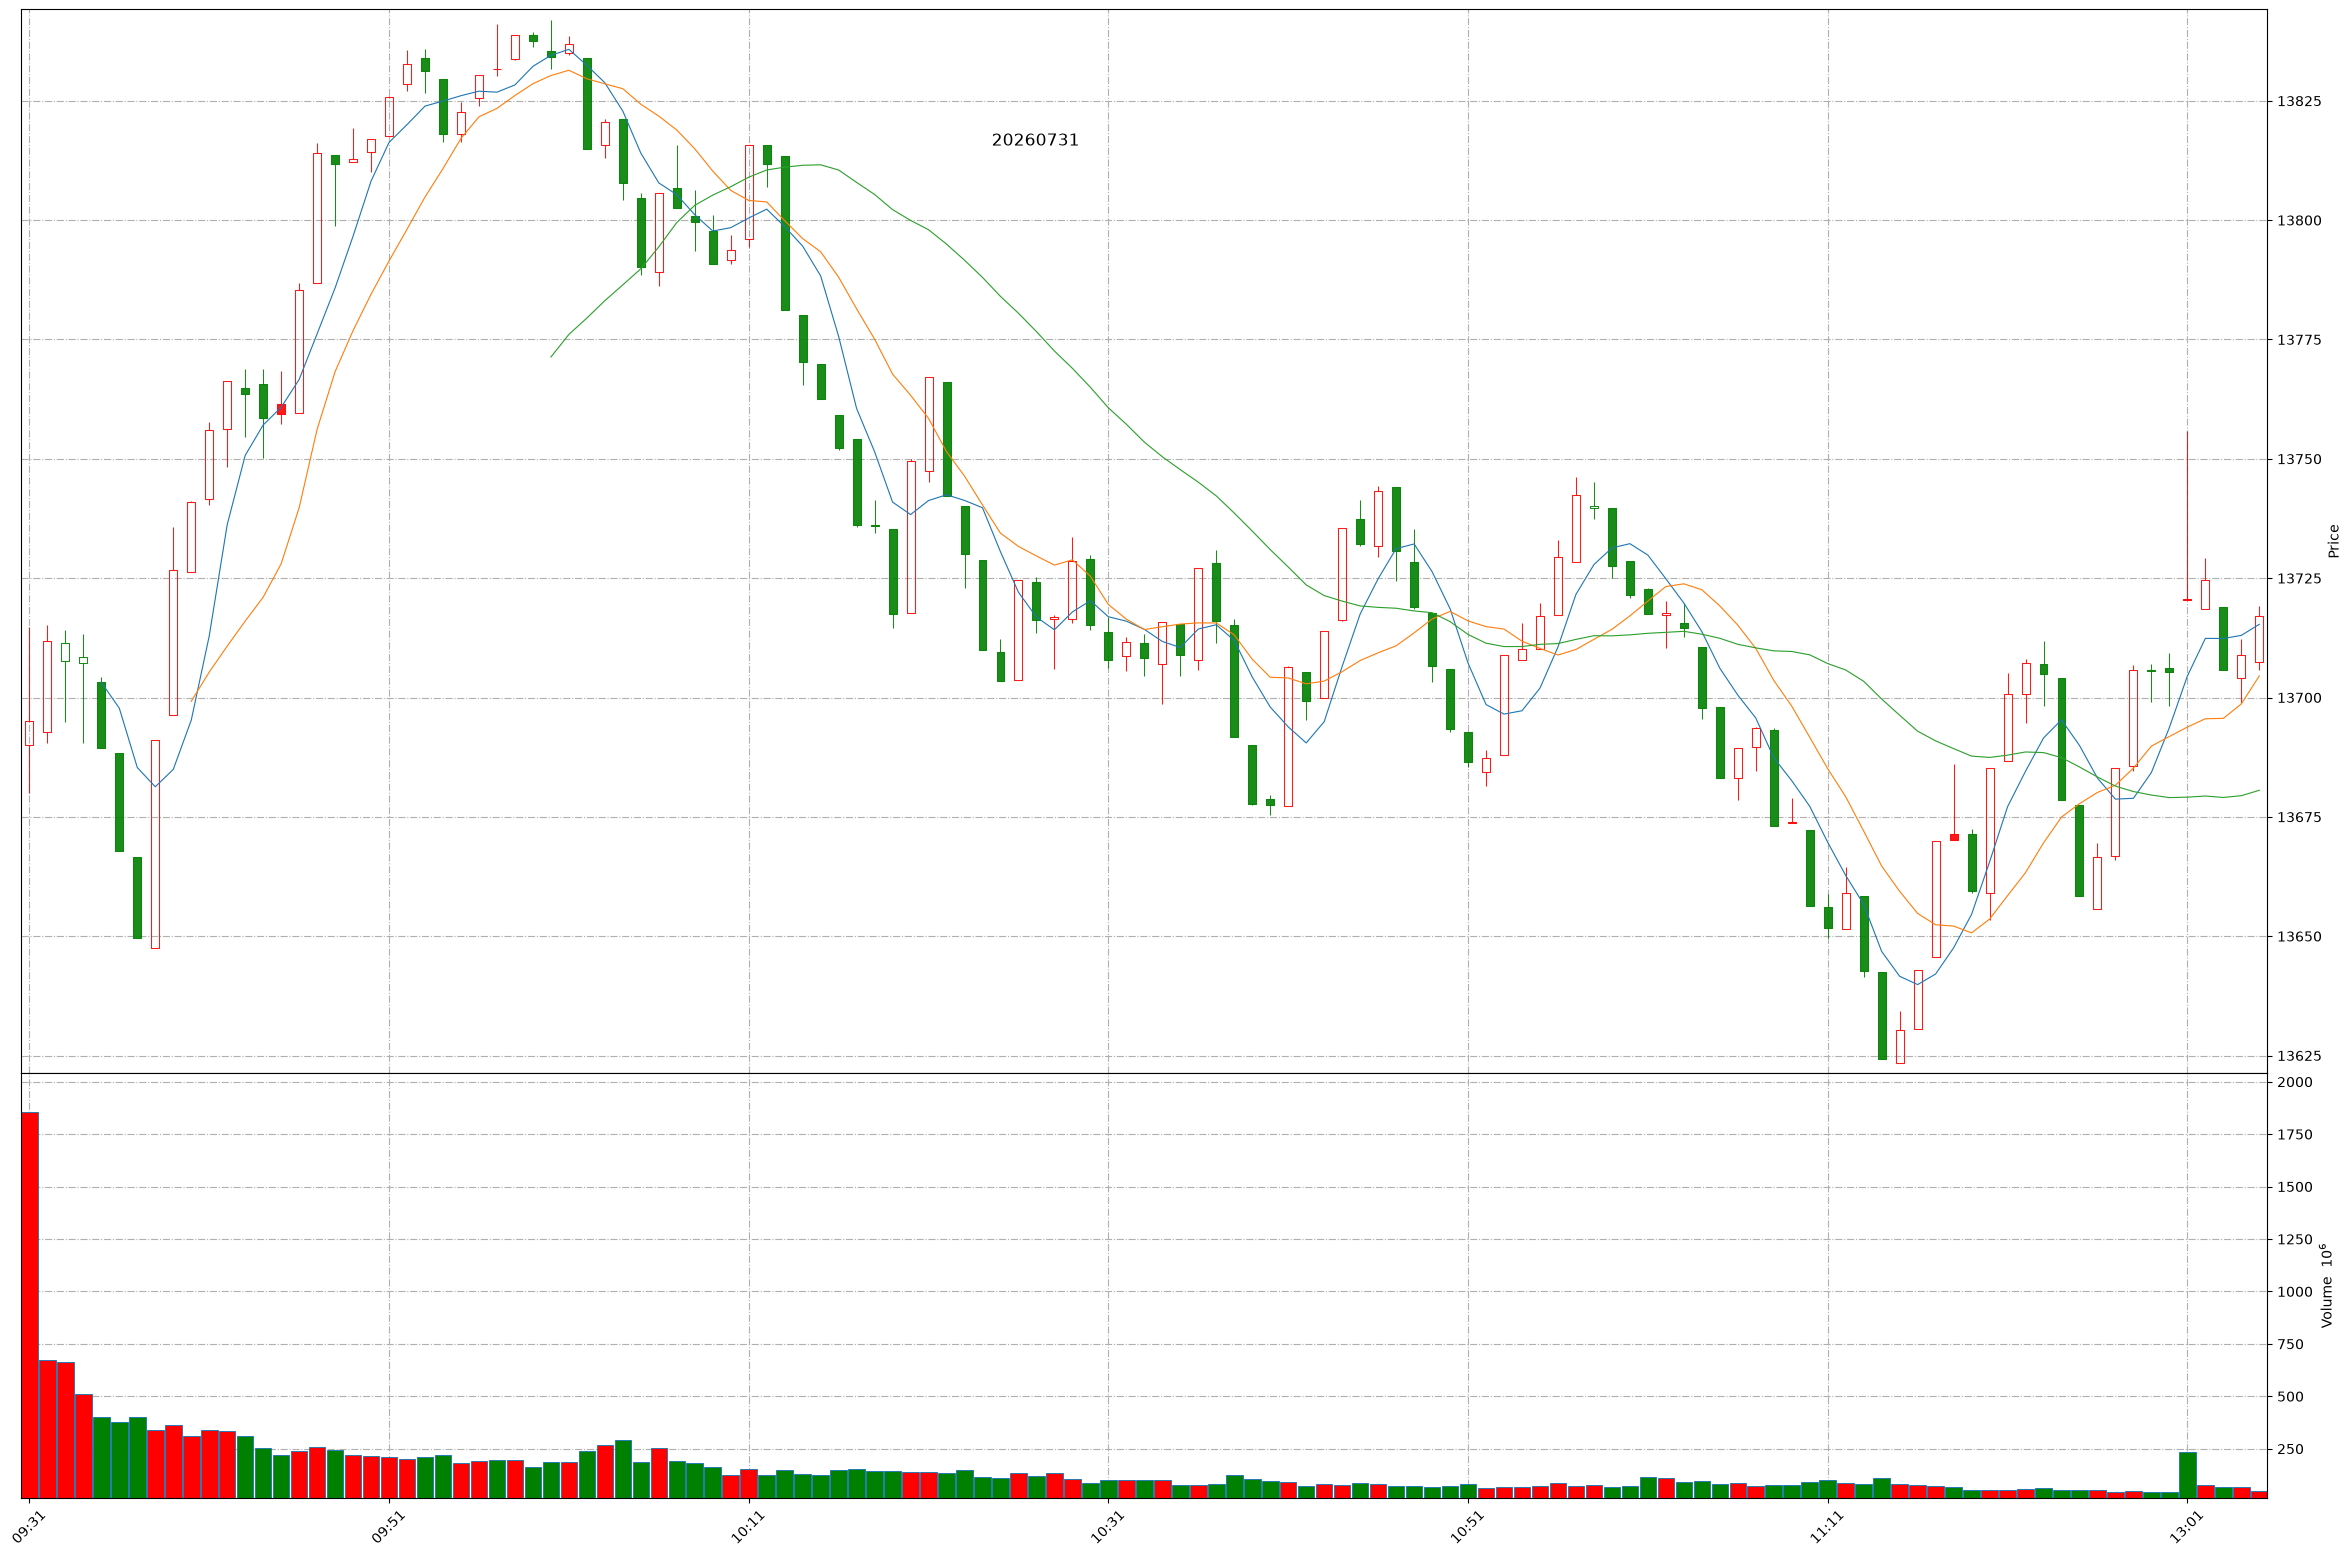
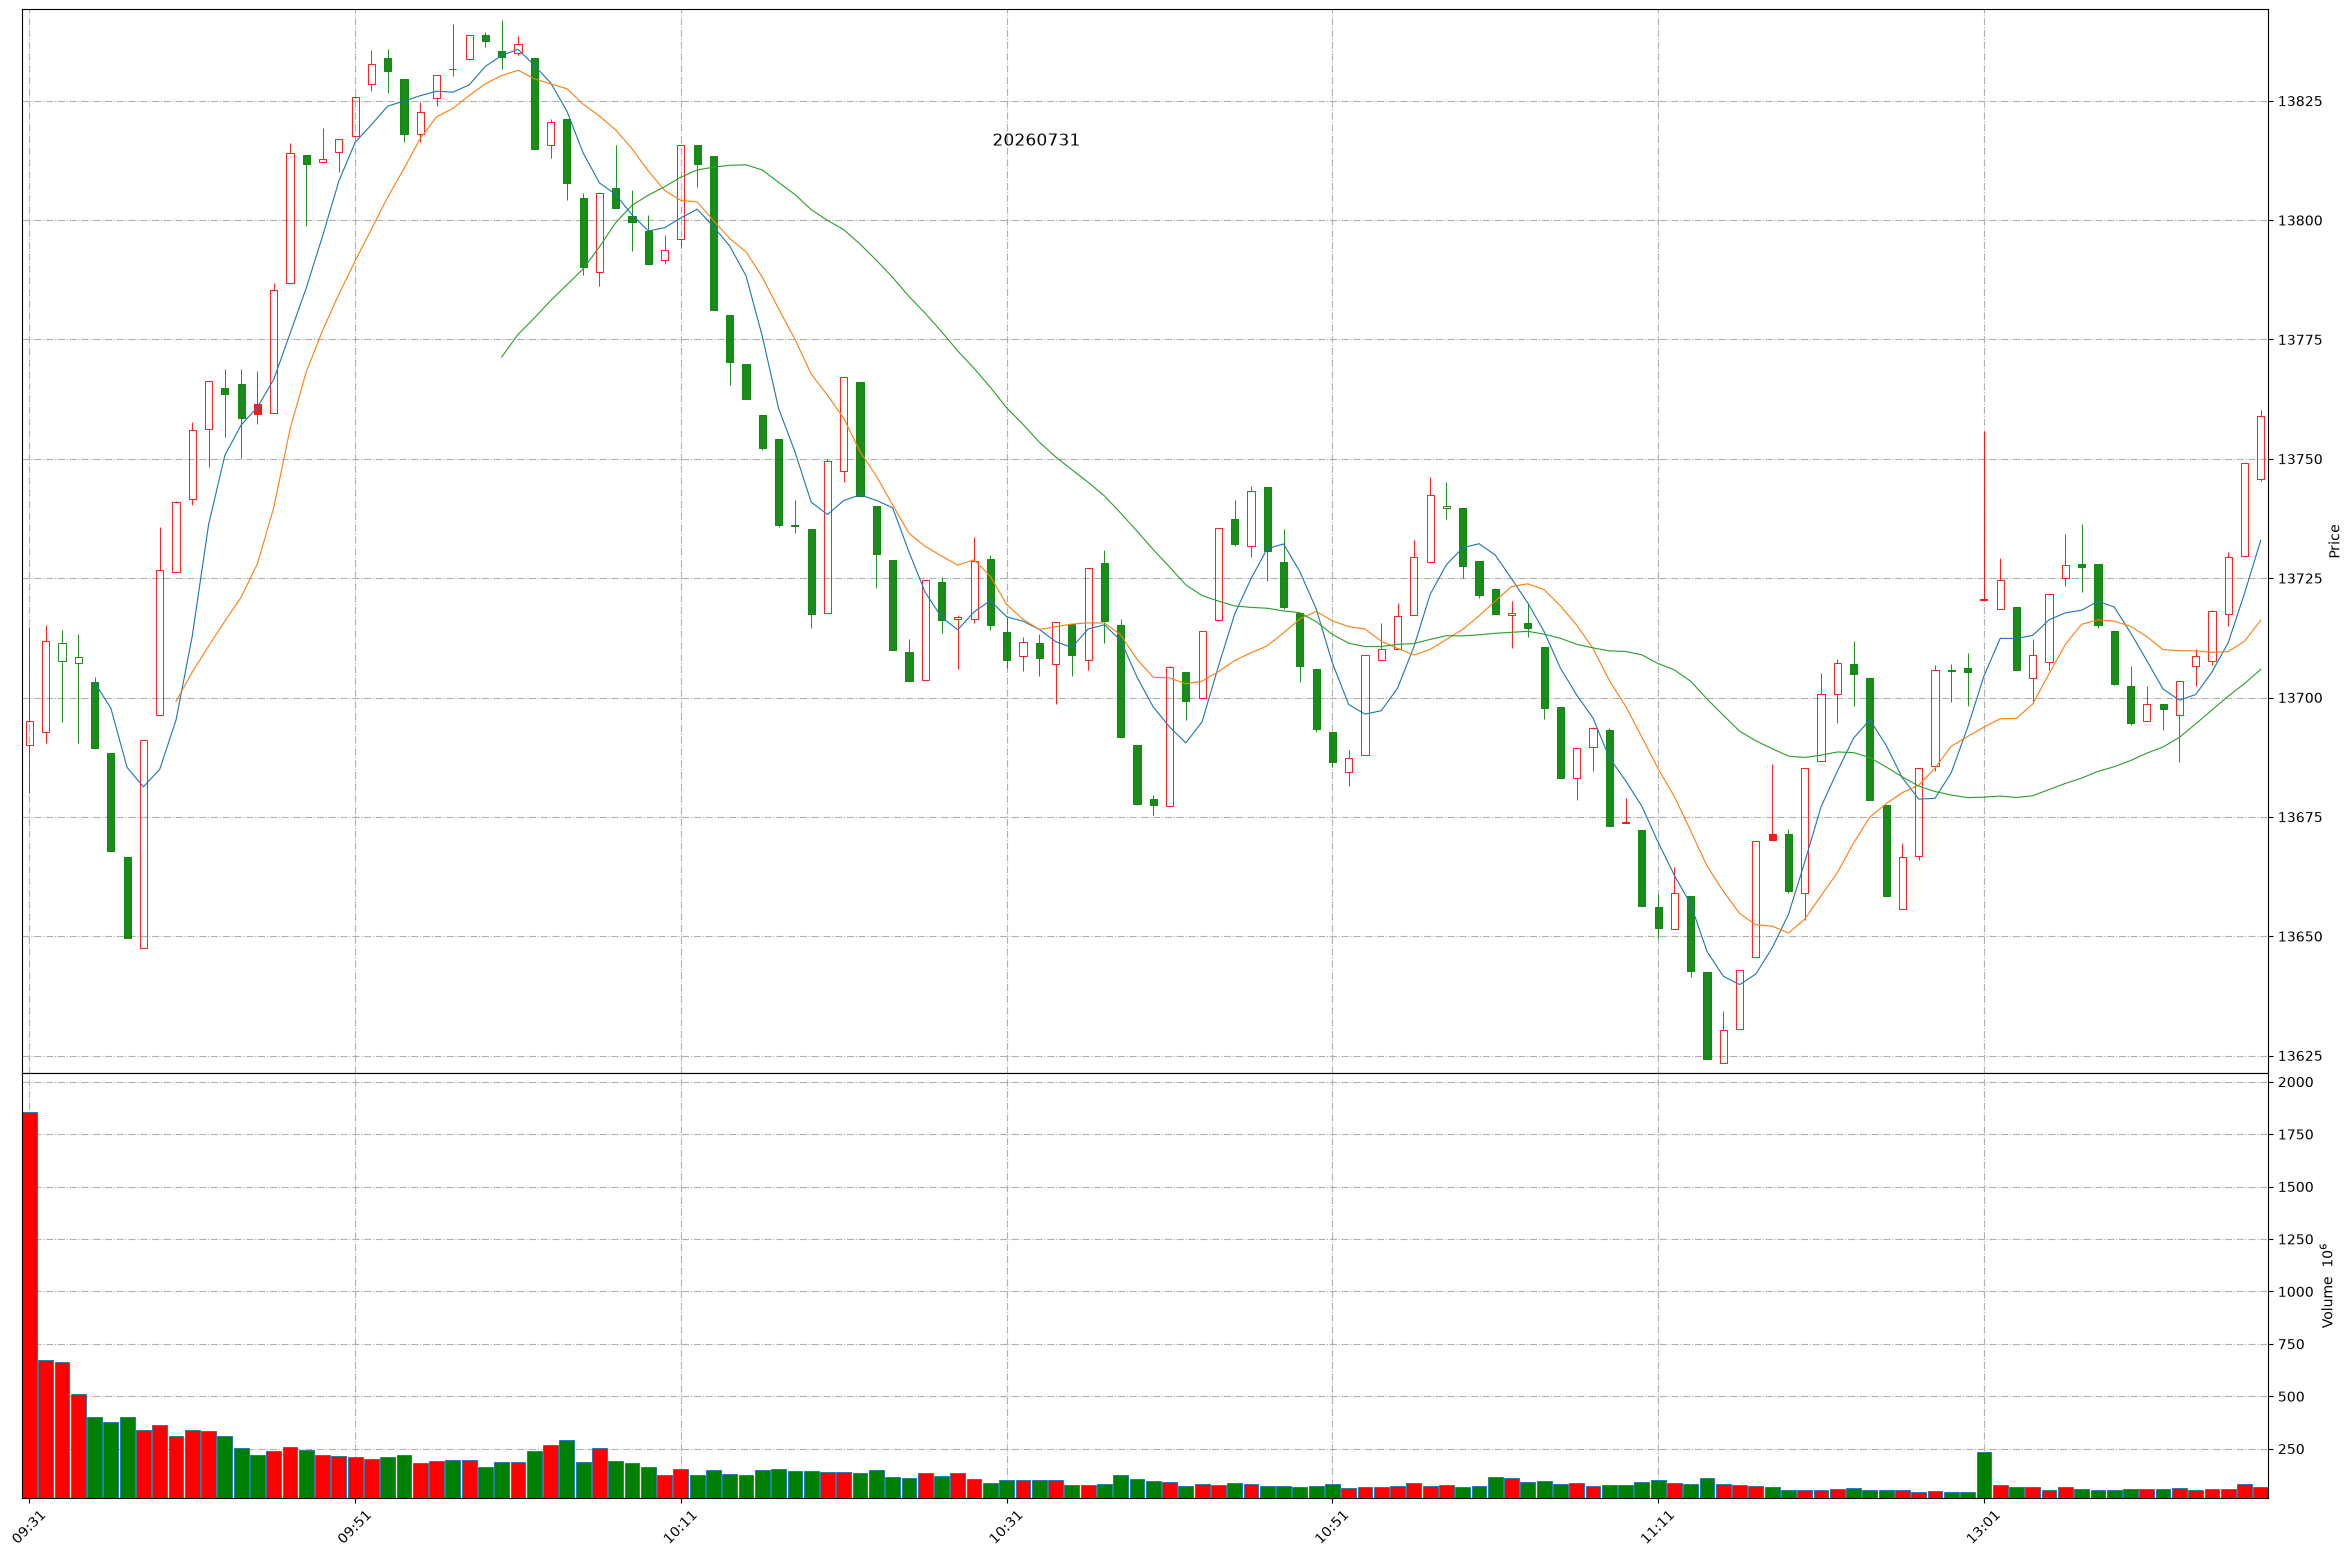
Github action update at 2026-07-31 13:18:31.

diff --git a/README.md b/README.md
@@ -1,11 +1,11 @@
 
 # Daily-A-share-market-quotes 每日 A 股指数（5min 更新）- 20260731
 
-### 上证指数 20260731 13:5
+### 上证指数 20260731 13:18
 ![](./fig/2026/7/20260731-sh000001.png)
 
-### 深证成指 20260731 13:5
+### 深证成指 20260731 13:18
 ![](./fig/2026/7/20260731-sz399001.png)
 
-### 北证50 20260731 13:5
+### 北证50 20260731 13:18
 ![](./fig/2026/7/20260731-bj899050.png)
